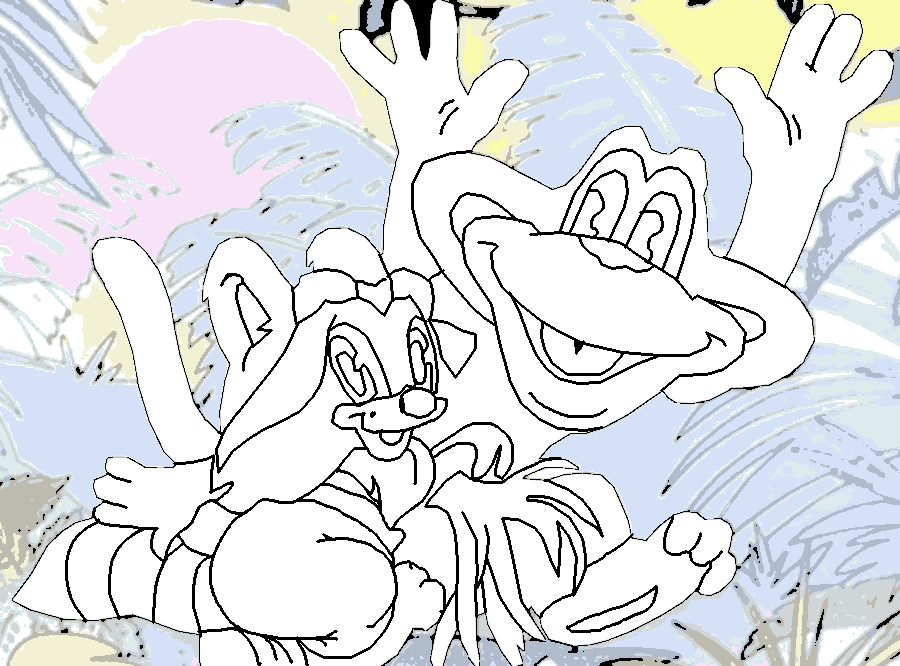
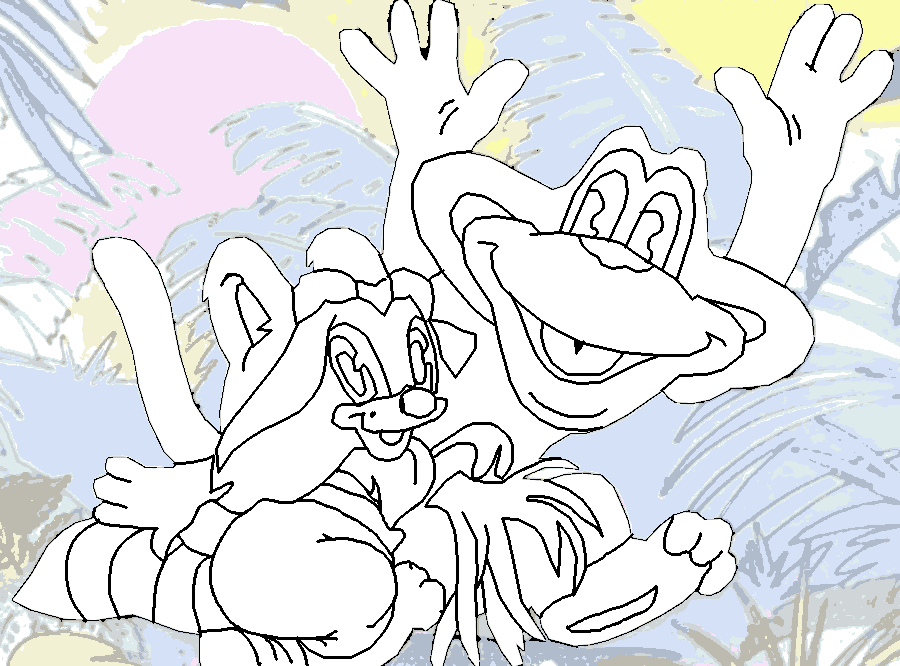
Убирание чёрных пятен с рисунков

diff --git a/index.html b/index.html
@@ -1393,6 +1393,42 @@ i{
     <img class="kartinki" data-src="Ris12/407.png">
 </div>
 
+<!-- <div class="dla_kategoriy_podborok" onmousedown="return false" onselectstart="return false">
+<h1 class ="kategorija_podborok">Раскраски из мультфильмов Диснея</h1>
+</div>
+
+
+<div class="nizniy_dla_kartinok">
+    <img class="kartinki" data-src="Ris12/1050.png">
+    <img class="kartinki" data-src="Ris12/1051.png">
+    <img class="kartinki" data-src="Ris12/1052.png">
+    <img class="kartinki" data-src="Ris12/1053.png">
+    <img class="kartinki" data-src="Ris12/1054.png">
+    <img class="kartinki" data-src="Ris12/1055.png">
+    <img class="kartinki" data-src="Ris12/1056.png">
+    <img class="kartinki" data-src="Ris12/1057.png">
+    <img class="kartinki" data-src="Ris12/1058.png">
+    <img class="kartinki" data-src="Ris12/1059.png">
+    <img class="kartinki" data-src="Ris12/1060.png">
+    <img class="kartinki" data-src="Ris12/1061.png">
+    <img class="kartinki" data-src="Ris12/1062.png">
+    <img class="kartinki" data-src="Ris12/1063.png">
+    <img class="kartinki" data-src="Ris12/1064.png">
+    <img class="kartinki" data-src="Ris12/1065.png">
+    <img class="kartinki" data-src="Ris12/1066.png">
+    <img class="kartinki" data-src="Ris12/1067.png">
+    <img class="kartinki" data-src="Ris12/1068.png">
+    <img class="kartinki" data-src="Ris12/1069.png">
+    <img class="kartinki" data-src="Ris12/1070.png">
+    <img class="kartinki" data-src="Ris12/1071.png">
+    <img class="kartinki" data-src="Ris12/1072.png">
+    <img class="kartinki" data-src="Ris12/1073.png">
+    <img class="kartinki" data-src="Ris12/1074.png">
+    <img class="kartinki" data-src="Ris12/1075.png">
+    <img class="kartinki" data-src="Ris12/1076.png">
+    <img class="kartinki" data-src="Ris12/1077.png">
+</div> -->
+
 
 <h3 class="ssilka"> Ниже приведены ссылки на другие мои сайты:</h3>
     <div id="дляАнимированныхСсылок">
